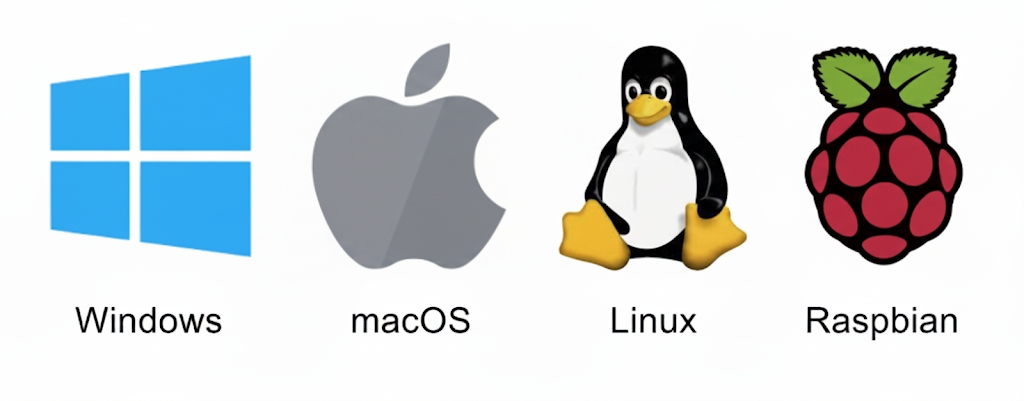
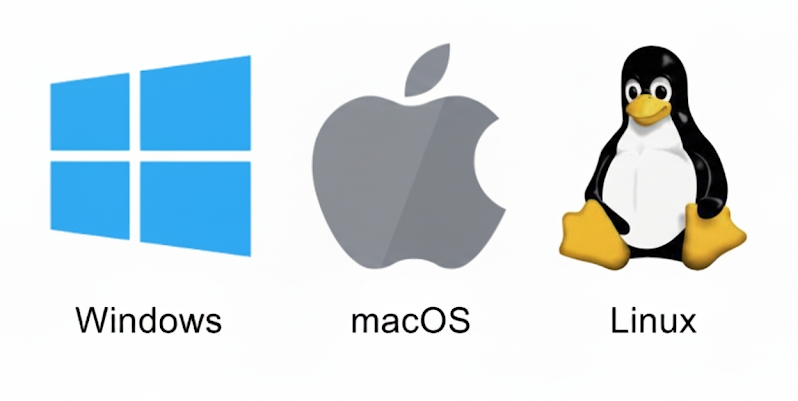
doc: update SLogic16U3 platform support details and improve formatting

diff --git a/docs/hardware/zh/logic_analyzer/slogic16u3/Introduction.md b/docs/hardware/zh/logic_analyzer/slogic16u3/Introduction.md
@@ -48,12 +48,12 @@ SLogic16U3 是新一代 USB3 逻辑分析仪。它在紧凑的 40×40×10 mm 超
 ![](../../../en/logic_analyzer/slogic16u3/assets/Screenshots/supported-platforms.png)
 - Windows 10/11 (x86_64)
   - 受限于 Windows 驱动不够激进，无法满速，原生 exe 版本只能降速运行（最大支持 200M@8CH）
-  - 另 Linux 虚拟机可满速运行
-  - ![](../../../en/logic_analyzer/slogic16u3/assets/Screenshots/Screenshot_2025-09-27_11-05-12.png)
-- Linux (x86_64, aarch64)
+  <details class="indent">
+    <summary><b>另 Linux 虚拟机可满速运行</b></summary>
+    <img src="../../../en/logic_analyzer/slogic16u3/assets/Screenshots/Screenshot_2025-09-27_11-05-12.png">
+  </details>
+- Linux (x86_64)
 - macOS (Apple Silicon M4)
-- Raspberry Pi 5
-  - ![](../../../en/logic_analyzer/slogic16u3/assets/Screenshots/Screenshot_2025-09-27_11-55-18.png)
 
 ### 下载
 - 软件下载: https://dl.sipeed.com/shareURL/SLogic

diff --git a/docs/hardware/en/logic_analyzer/slogic16u3/Introduction.md b/docs/hardware/en/logic_analyzer/slogic16u3/Introduction.md
@@ -49,10 +49,8 @@ SLogic16U3 is the next-generation USB3 logic analyzer. In a compact 40×40×10 m
   - Due to the conservative Windows driver, it cannot reach full speed; the native .exe version must run throttled (maximum supported 200M@8CH).
   - Additionally, it can run at full speed in a Linux virtual machine.
   - ![](../../../en/logic_analyzer/slogic16u3/assets/Screenshots/Screenshot_2025-09-27_11-05-12.png)
-- Linux (x86_64, aarch64)
+- Linux (x86_64)
 - macOS (Apple Silicon M4)
-- Raspberry Pi 5
-  - ![](../../../en/logic_analyzer/slogic16u3/assets/Screenshots/Screenshot_2025-09-27_11-55-18.png)
 
 ### Downloads
 - Binary downloads: https://dl.sipeed.com/shareURL/SLogic
